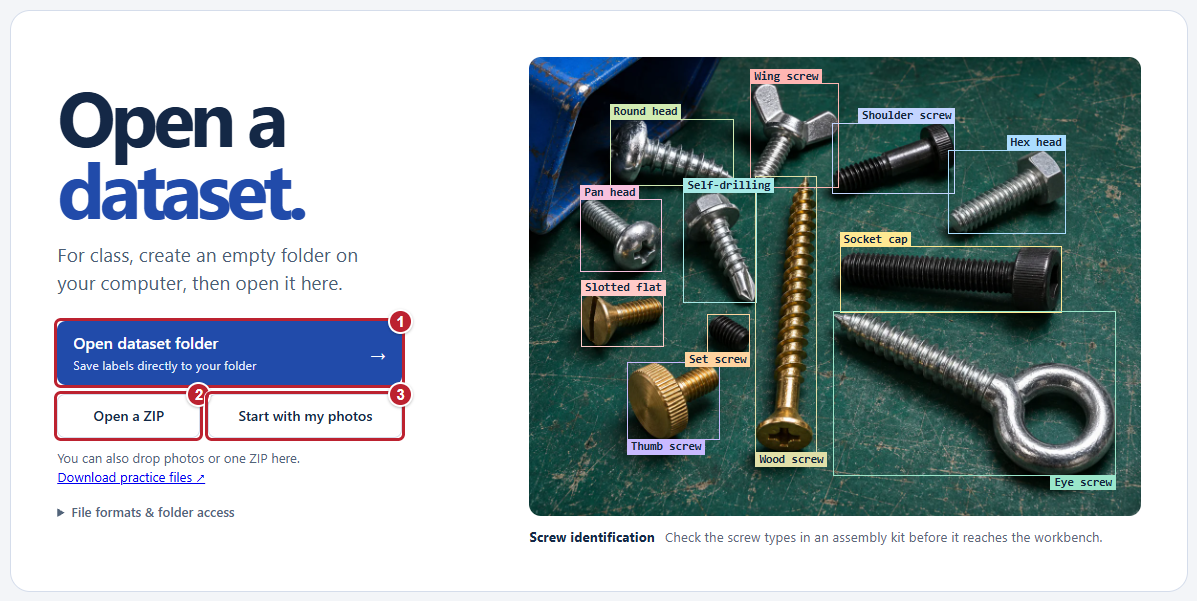
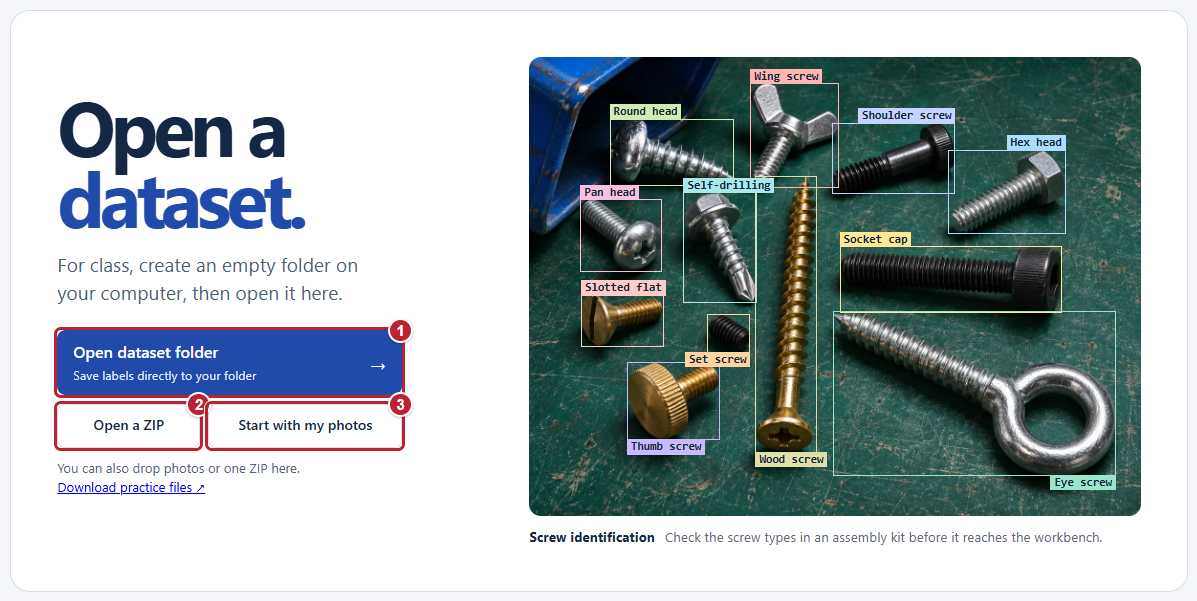
Move file formats and folder guidance into Help

Changed region(s): [[0.0309, 0.4193, 0.34, 0.8686], [0.0309, 0.1498, 0.2782, 0.3894]]

diff --git a/index.html b/index.html
@@ -285,6 +285,9 @@ dialog {
   padding: 0;
 }
 dialog::backdrop { background: rgba(15, 23, 42, .55); }
+#helpDialog[open] { display:flex; flex-direction:column; }
+#helpDialog .dialog-body { overflow-y:auto; overscroll-behavior:contain; }
+#helpDialog .dialog-foot { flex-shrink:0; }
 .dialog-body { padding: 22px; }
 .dialog-foot {
   padding: 14px 22px;
@@ -463,11 +466,7 @@ figcaption { margin-top:5px; line-height:1.25; }
 .entry-action span { font-size:1rem; }
 .entry-action small { font-size:.78rem; font-weight:450; }
 .entry-action.primary small { color:#e4edff; }
-.drop-hint,.format-notes { color:#52647a; }
-.drop-hint,.format-notes { font-size:.82rem; }
-.drop-hint { margin:10px 0 16px; }
-.format-notes summary { width:fit-content; font-weight:600; }
-.format-notes p { max-width:48ch; }
+.drop-hint { color:#52647a; font-size:.82rem; margin:10px 0 16px; }
 .kit-example { margin:0; align-self:center; min-width:0; container-type:inline-size; }
 .kit-photo { aspect-ratio:4/3; background:#285759 var(--screw-photo) center/100% 100%; border-radius:12px; position:relative; isolation:isolate; counter-reset:part; }
 .photo-box { position:absolute; counter-increment:part; border:1.5px solid var(--tag); left:var(--x); top:var(--y); width:var(--w); height:var(--h); }
@@ -612,11 +611,6 @@ figcaption { margin-top:5px; line-height:1.25; }
         </div>
         <p id="folderFeedback" class="folder-feedback" role="status"></p>
         <p class="drop-hint">You can also drop photos or one ZIP here.<br><a href="https://github.com/Active-Learning-Kyle/yolo-dataset-labeler#try-the-sample-photos" target="_blank" rel="noopener noreferrer">Download practice files ↗</a></p>
-        <details class="format-notes"><summary>File formats &amp; folder access</summary>
-          <p>Choose JPG, JPEG, PNG, WebP or BMP. Convert HEIC or HEIF photos to JPEG or PNG first.</p>
-          <p id="modeNote"></p>
-          <p>ZIP limits: UTF-8 or ASCII filenames, 50,000 entries, 1 GiB input, 512 MiB per file and 2 GiB extracted.</p>
-        </details>
       </div>
       <figure class="kit-example">
         <div class="kit-photo" role="img" aria-label="Twelve screws scattered beside a parts tray. The boxes identify a hex head, socket cap, thumb screw, wing screw, eye screw, set screw, self-drilling screw, slotted flat head, wood screw, shoulder screw, pan head and round head.">
@@ -768,9 +762,16 @@ figcaption { margin-top:5px; line-height:1.25; }
   </div>
   <div class="dialog-foot"><button id="dismissDownload">Return to dataset</button></div>
 </dialog>
-<dialog id="helpDialog">
+<dialog id="helpDialog" aria-labelledby="helpTitle">
   <div class="dialog-body">
-    <h2>Quick help</h2>
+    <h2 id="helpTitle" tabindex="-1" autofocus>Quick help</h2>
+    <h3>File formats &amp; folder access</h3>
+    <ul>
+      <li><b>Photos.</b> Choose JPG, JPEG, PNG, WebP or BMP. Convert HEIC or HEIF photos to JPEG or PNG first.</li>
+      <li><b>Folders.</b> <span id="modeNote"></span></li>
+      <li><b>ZIP files.</b> Use UTF-8 or ASCII filenames. Limits are 50,000 entries, 1 GiB per archive, 512 MiB per file and 2 GiB total when extracted.</li>
+    </ul>
+    <h3>Labeling tools</h3>
     <ol>
       <li>Choose <b>Draw</b> and a <b>New box class</b>. Drag anywhere on the image, including inside an existing box.</li>
       <li>Choose <b>Edit</b>, then tap a box or its row. Drag inside to move it, drag a corner to resize it, or use <b>Change selected box class</b>.</li>

diff --git a/README.md b/README.md
@@ -53,7 +53,7 @@ When you open an empty writable folder, click **Create Missing Items** where sho
 
 ![Empty dataset with all three required items marked Missing and Create Missing Items outlined in red](docs/guide/02-create-files.png)
 
-Open **File formats & folder access** on the opening screen for device-specific guidance. Supported photos are JPG/JPEG, PNG, WebP and BMP. Convert HEIC/HEIF photos to JPEG or PNG first. For ZIP imports, use UTF-8 or ASCII filenames and an unencrypted archive. Limits are 1 GiB per ZIP, 50,000 entries, 512 MiB per file and 2 GiB total extracted.
+Click **Help** in the top bar to find **File formats & folder access**. Supported photos are JPG/JPEG, PNG, WebP and BMP. Convert HEIC/HEIF photos to JPEG or PNG first. For ZIP imports, use UTF-8 or ASCII filenames and an unencrypted archive. Limits are 1 GiB per ZIP, 50,000 entries, 512 MiB per file and 2 GiB total extracted.
 
 Give each photo in a writable folder a unique name before its extension. For example, `bolt-01.jpg` and `bolt-01.png` would both need `bolt-01.txt`. When you import individual photos with the same name, the labeler gives the incoming copies unique names.
 
@@ -141,7 +141,7 @@ After the final download, **I have the ZIP** reveals the image, box and backgrou
 
 Click **Help** in the top bar for a reminder about drawing, editing, marking backgrounds, minimum box size, shortcuts and saving. While labeling, expand **Box guide & shortcuts** below the bounding-box list to see a loose box and a tight box around the same hex nut.
 
-![Quick help dialog with four annotation tips, a row of common keyboard shortcuts and a note on saving draft ZIPs](docs/guide/07-quick-help.png)
+![Quick help with file formats and folder access at the top, followed by labeling tips and keyboard shortcuts](docs/guide/07-quick-help.png)
 
 These shortcuts work in the annotation workbench. Finish typing in a text field before using the single-key commands. Use **Ctrl** on Windows or Linux and **⌘** on macOS.
 
